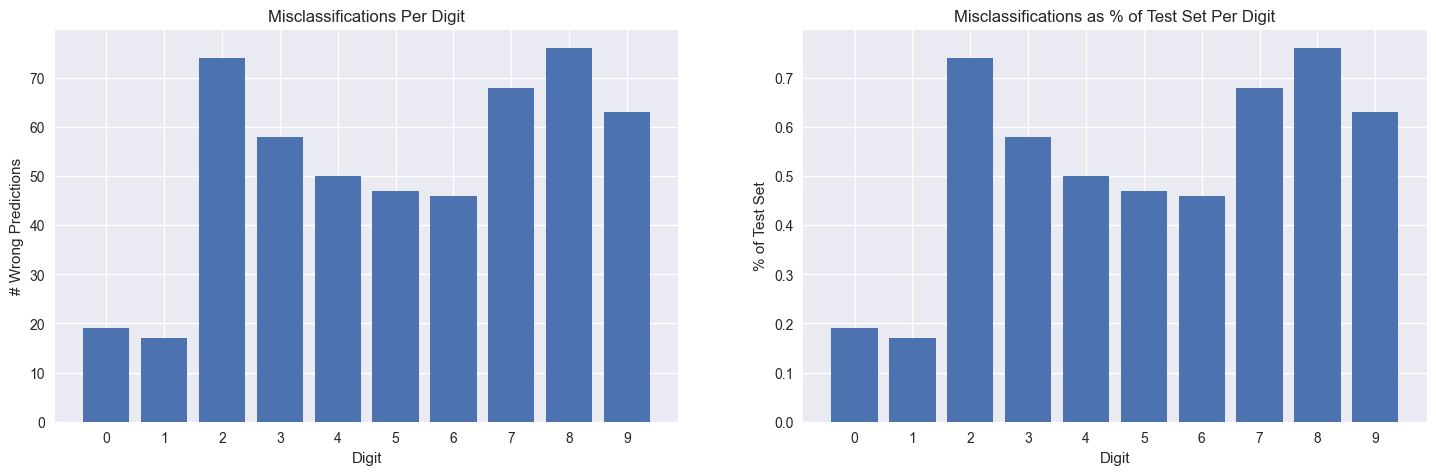
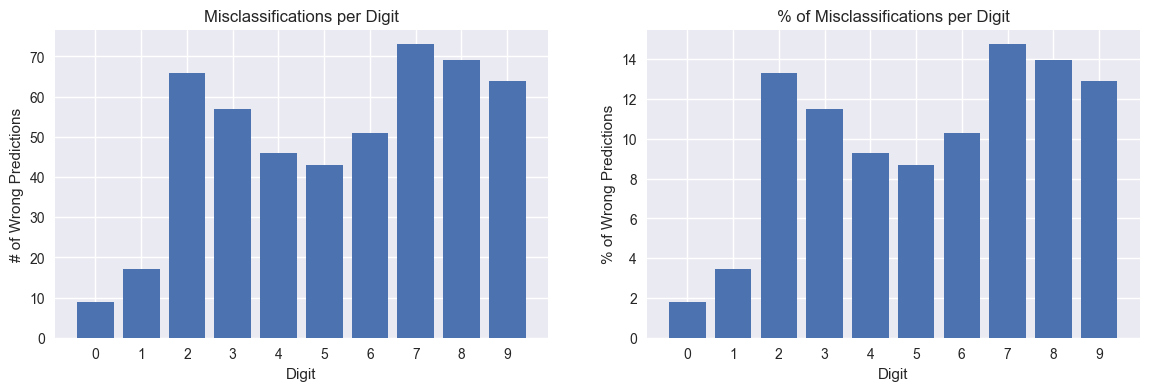
update digit classifier project

diff --git a/frontend/src/pages/project-pages/DigitClassifier.tsx b/frontend/src/pages/project-pages/DigitClassifier.tsx
@@ -1,9 +1,9 @@
 import PageContainer from "../../components/container/PageContainer";
 import PageSection from "../../components/page-section/PageSection";
 
-import lossAccuracyImg from "../../assets/projects/digit-classifier/loss_accuracy.png";
+import lossAccuracyImg from "../../assets/projects/digit-classifier/loss-accuracy.png";
 import misclassificationsImg from "../../assets/projects/digit-classifier/misclassifications.png";
-import wrongGuessesImg from "../../assets/projects/digit-classifier/wrongguesses.png";
+import wrongGuessesImg from "../../assets/projects/digit-classifier/wrong-guesses.png";
 
 const images = {
     lossAccuracy: lossAccuracyImg,
@@ -14,53 +14,56 @@ const images = {
 const DigitClassifier = () => {
     const introParagraphs = [
         <>
-            My machine learning class at UW-Milwaukee taught me the theory behind deep neural networks
-            and how they are implemented through various class projects utilizing the Sklearn library.
-            I wanted to take this a step further and challenge myself to implement the neural network framework
-            and backpropagation algorithm from scratch.
+            My machine learning course at UW-Milwaukee taught me the theory behind deep neural networks
+            and how they are implemented through various class projects where I created neural networks with the Sklearn library.
+            I wanted to take this a step further and challenge myself to implement a fully connected neural network from scratch
+            to truly understand the architecture and backpropagation algorithm.
         </>,
         <>
             I decided to use the <a className="text-link" href="https://www.kaggle.com/datasets/hojjatk/mnist-dataset" target="_blank" rel="noreferrer">MNIST dataset </a> 
             for this project and designed a vanilla deep neural network with leaky relu and softmax activation functions and 
-            cross-entropy loss to classify digits 0-9 from 28x28 grayscale images (MNIST) with <b>~95%</b> accuracy.
+            cross-entropy loss to classify digits 0-9 from 28x28 grayscale images (MNIST) with <b>95%</b> accuracy.
         </>
     ]
     const analysisSection = {
         introParagraph : <>
-            Overall, my model was able to correctly classify 94.82% of the examples it was tested on. 
+            Overall, my model was able to correctly classify 95.05% of the examples it was tested on. 
             Not far off <a className="text-link" href="https://arxiv.org/html/2603.12850" target="_blank" rel="noreferrer">the best model as of November 2025</a>,
-            which consists of multiple connected CNNs that was able to correctly classify MNIST digits with 99.91% accuracy.
+            which consists of multiple connected CNNs and was able to correctly classify MNIST digits with 99.91% accuracy.
         </>,
         lossAccuracyParagraph : <>
             The figure above outlines the loss and accuracy measures at each epoch.
-            I chose 10 epochs of training for the MNIST dataset on this neural network because
+            I chose 10 epochs of training for this task because
             the validation and training sets for both loss and accuracy more or less converge at this epoch.
             In other words, continuing to train the model on more epochs would lead to overfitting, as the neural network
             would start to memorize the training data instead of generalize from it. 
-            This would cause training accuracy to increase while validation (and inevitably overall) accuracy decreases.
+            This would cause training accuracy to balloon while overall accuracy decreases.
         </>,
         misclassificationsParagraph : <>
             These two bar graphs show where the model struggled most, broken down by digit class. 
             The left chart shows the raw count of wrong predictions per digit, 
-            while the right shows those same errors as a percentage of the entire test set. 
-            Digits 0 and 1 were classified most accurately, each with only 18-20 misclassifications. 
+            while the right shows the percentage of wrong predictions per digit. 
+            Digits 0 and 1 were classified most accurately, each only contributing &lt;4% to error. 
             These digits have simple and distinct shapes, which likely made it easy for the neural network to pick up on their features. 
-            The model performed worst on digits 2, 7, 8, and 9, each exceeding 60 misclassifications with a ~0.70 - 0.75% error rate. 
+            The model performed worst on digits 2, 7, 8, and 9, each contributing &gt;13% to error. 
         </>,
         wrongGuessesParagraph: <>
             Digging a little deeper, each of these bar graphs shows which digits the model incorrectly guessed for the four hardest digits: 2, 7, 8, and 9. 
-            Digit 2 was most often confused with 8 (~17 times), which would resemble an 8 if its middle diagonal were closed into a loop.
-            Digit 7 was significantly misclassified as 9 (~25 times), likely because both digits share a similar structure of an upper horizontal 
-            stroke connected to a downward diagonal line. 
-            Digit 8 was most often confused with 3 (~16 times) and 5 (~16 times): 3 would closely resemble 8 if a vertical stroke were added on the left side, 
-            and similarly 5 would resemble 8 if its middle diagonal were closed into a loop. 
-            Digit 9 was most frequently misclassified as 4 (~21 times), likely because the two share a very similar closed upper loop. 
+            Digit 2 was most often confused with an 8 (~24% of the time), which would resemble an 8 if its middle diagonal were closed into a loop.
+            Digit 7 was significantly misclassified as a 9 (~47% of the time), likely because both digits share a similar structure of 
+            a downward diagonal line and the model had a hard time differentiating between the top horizontal line of a 7 and a top loop of a 9. 
+            Digit 8 was most often confused with a 3 (~24% of the time) and a 5 (~22% of the time): a 3 would closely resemble an 8 if a vertical stroke were added on the left side, 
+            and similarly a 5 would resemble an 8 if its middle diagonal were closed into a loop. 
+            Digit 9 was most frequently misclassified as a 4 (~34% of the time), likely because the two share a very similar closed upper loop connected by a vertical line. 
         </>,
         conclusionParagraph: <>
-            All of the above bar graphs paint a bigger picture. While my model scores with 94.82% accuracy overall, 
+            All of the above bar graphs paint a bigger picture. While my model scores with 95.05% accuracy overall, 
             it does not take into consideration the varation of error across digit classes. 
             My model can handle simple, distinct digits like 0 and 1 but struggles with digits that share structual features.
-            This pattern suggests that the representations my model abstracted may not be descriptive enough to separate visually similar digits.
+            This pattern suggests that the representations my model abstracted may not have been descriptive enough to separate visually similar digits.
+            It should also be noted that this was the outcome of this particular instance of training.
+            Neural networks are not deterministic, meaning if I were to train the same model on the same dataset,
+            it may or may not pick up on different features and struggle with other digits instead.
         </>
 
     }
@@ -70,7 +73,7 @@ const DigitClassifier = () => {
             There are several optimizations I could have implemented to improve my model further. 
             One option would have been to use <b>parametric ReLU (PReLU)</b> instead of leaky ReLU. 
             Unlike leaky ReLU, which binds the negative-slope coefficient to a single fixed value, 
-            PReLU allows the network to learn the coefficient through backpropagation, 
+            PReLU allows the network to learn the coefficient during backpropagation, 
             meaning each activation can tune itself to a value that minimizes the loss, 
             rather than being stuck at a fixed constant I set arbitrarily.
         </>,
@@ -81,8 +84,12 @@ const DigitClassifier = () => {
             This would have helped reduce overfitting and likely improved overall accuracy.
         </>,
         <>
+            I could have also increased the number of hidden layers and the number of nodes in each hidden layer, 
+            which may have helped the model learn more abstract and descriptive features than it did.
+        </>,
+        <>
             Finally, implementing a <b>convolutional neural network (CNN)</b> instead would have been the most impactful change. 
-            My fully connected model can still learn to detect abstract features like edges, curves, and shapes through its successive hidden layers, 
+            My fully connected model can semi-accurately learn to detect abstract features like edges, curves, and shapes through its successive hidden layers, 
             but it has no built-in way to recognize that a feature in one part of an image is the same as that feature somewhere else. 
             CNNs achieve translational equivariance through the shared weights they use in convolutional filters. 
             This would have made my model far better at classifying features regardless of where they appear in the image.
@@ -104,7 +111,7 @@ const DigitClassifier = () => {
                         title="Digit Identifier Notebook"
                         style={{ width: "100%", minWidth: "400px", height: "60vh", border: "none" }}
                     />
-                    <p><i>Note: Extra code included in training and testing for further model analysis.</i></p>
+                    <p><i>Note: There is some unrelated code included in the train and test sections used to gather information for analysis.</i></p>
                 </div>
             </PageSection>
             <PageSection id='digit-classifier-analysis'>